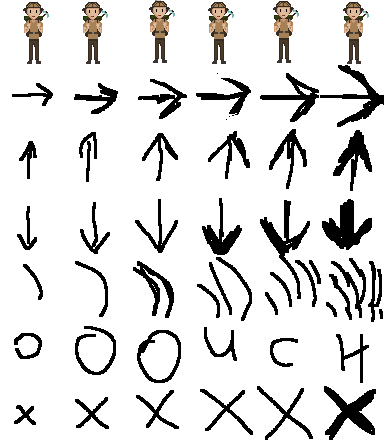
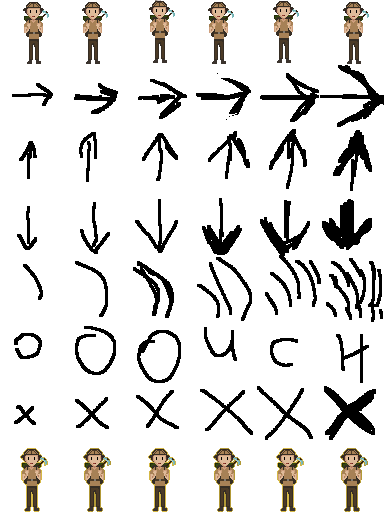
added selected animation added joins_army script action type fixed a few minor bugs

diff --git a/LostInTheMap/xml_system.cpp b/LostInTheMap/xml_system.cpp
@@ -385,6 +385,12 @@ Script xml_system::load_script(std::string name, levels level)
 				temp.type = action_type::level_switch;
 				temp.utility = cur_node->first_attribute("level")->value();
 			}
+			else if (type.compare("join_army") == 0)
+			{
+				temp.type = action_type::join_army;
+				temp.target_type = NameToTypeConversion::get_character_type_by_name(cur_node->first_attribute("character")->value());
+				temp.num_utility = std::stoi(cur_node->first_attribute("quantity")->value());
+			}
 			else
 				temp.type = action_type::not_set;
 
@@ -482,85 +488,83 @@ std::vector<army_unit*> xml_system::load_army(std::string army_path, levels leve
 			units_to_be_loaded.push_back(u->type);
 	}
 
-	//preload units file
-	rapidxml::file<> units_file("config/units.xml");
-	rapidxml::xml_document<> units_doc;
-	units_doc.parse<0>(units_file.data());
-
 	//load unit stats
 	if (units_to_be_loaded.size() > 0)
 	{
 		for (character_type unit : units_to_be_loaded)
 		{
-			std::string name = NameToTypeConversion::get_character_name_by_type(unit);
-			rapidxml::xml_node<>* unit_data =  units_doc.first_node(name.c_str())->first_node();
-
-			int health = 0;
-			int close_min = 0;
-			int close_max = 0;
-			int ranged_min = 0;
-			int ranged_max = 0;
-			int speed = 0;
-			bool ranged_allowed = false;
-
-			//read in units stats of the given unit
-			while (unit_data)
-			{
-				std::string data_name = unit_data->name();
-				if (data_name.compare("health") == 0)
-				{
-					health = std::stoi(unit_data->first_attribute("value")->value());
-				}
-				else if (data_name.compare("close_attack") == 0)
-				{
-					close_min = std::stoi(unit_data->first_attribute("min_value")->value());
-					close_max = std::stoi(unit_data->first_attribute("max_value")->value());
-				}
-				else if (data_name.compare("ranged_attack") == 0)
-				{
-					std::string val = unit_data->first_attribute("allowed")->value();
-					if (val.compare("true") == 0)
-					{
-						ranged_allowed = true;
-						ranged_min = std::stoi(unit_data->first_attribute("min_value")->value());
-						ranged_max = std::stoi(unit_data->first_attribute("max_value")->value());
-					}
-				}
-				else if (data_name.compare("speed") == 0)
-				{
-					speed = std::stoi(unit_data->first_attribute("value")->value());
-				}				
-				unit_data = unit_data->next_sibling();
-			}
+			army_unit* un = xml_system::load_army_unit(unit);
 
 			//apply units stats to all units of that type in the army
 			for (army_unit* u : result)
 			{
 				if (u->type == unit)
 				{
-					u->health_of_first = health;
-					u->max_health = health;
+					u->health_of_first = un->health_of_first;
+					u->max_health = un->max_health;
 
-					u->min_damage_close = close_min;
-					u->max_damage_close = close_max;
+					u->min_damage_close = un->min_damage_close;
+					u->max_damage_close = un->max_damage_close;
 
-					u->min_damage_ranged = ranged_min;
-					u->max_damage_ranged = ranged_max;
-					u->ranged_allowed = ranged_allowed;
+					u->min_damage_ranged = un->min_damage_ranged;
+					u->max_damage_ranged = un->max_damage_ranged;
+					u->ranged_allowed = un->ranged_allowed;
 
-					u->speed = speed;
+					u->speed = un->speed;
 					u->is_enemy = is_enemy;
 				}
 			}
+			delete un;
 		}
 	}
 
 	return result;
 }
 
+army_unit* xml_system::load_army_unit(character_type ch)
+{
+	//preload units file
+	rapidxml::file<> units_file("config/units.xml");
+	rapidxml::xml_document<> units_doc;
+	units_doc.parse<0>(units_file.data());
 
+	army_unit* u = new army_unit();
+	std::string name = NameToTypeConversion::get_character_name_by_type(ch);
+	rapidxml::xml_node<>* unit_data = units_doc.first_node(name.c_str())->first_node();
 
+	//read in units stats of the given unit
+	while (unit_data)
+	{
+		std::string data_name = unit_data->name();
+		if (data_name.compare("health") == 0)
+		{
+			u->health_of_first = std::stoi(unit_data->first_attribute("value")->value());
+			u->max_health = std::stoi(unit_data->first_attribute("value")->value());
+		}
+		else if (data_name.compare("close_attack") == 0)
+		{
+			u->min_damage_close = std::stoi(unit_data->first_attribute("min_value")->value());
+			u->max_damage_close= std::stoi(unit_data->first_attribute("max_value")->value());
+		}
+		else if (data_name.compare("ranged_attack") == 0)
+		{
+			std::string val = unit_data->first_attribute("allowed")->value();
+			if (val.compare("true") == 0)
+			{
+				u->ranged_allowed = true;
+				u->min_damage_ranged= std::stoi(unit_data->first_attribute("min_value")->value());
+				u->max_damage_ranged= std::stoi(unit_data->first_attribute("max_value")->value());
+			}
+		}
+		else if (data_name.compare("speed") == 0)
+		{
+			u->speed= std::stoi(unit_data->first_attribute("value")->value());
+		}
+		unit_data = unit_data->next_sibling();
+	}
 
+	return u;
+}
 
 xml_system::xml_system()
 {

diff --git a/LostInTheMap/animator.cpp b/LostInTheMap/animator.cpp
@@ -55,6 +55,7 @@ void animator::start_animation(IAnimatable* ac, animations type, void(*done_call
 		if (ac->cur_row == 0)
 			already_there = true;
 		ac->cur_row = 0;
+		ac->total_sprite_required_time = 170;
 	}
 		break;
 	case animations::walking_right:
@@ -67,6 +68,7 @@ void animator::start_animation(IAnimatable* ac, animations type, void(*done_call
 				already_there = true;
 			dc->flipped_x = false;
 		}
+		ac->total_sprite_required_time = 100;
 	}
 		break;
 	case animations::walking_left:
@@ -79,15 +81,18 @@ void animator::start_animation(IAnimatable* ac, animations type, void(*done_call
 				already_there = true;
 			dc->flipped_x = true;
 		}
+		ac->total_sprite_required_time = 100;
 	}
 		break;
 	case animations::walking_up:
 		if (ac->cur_row == 2)
 			already_there = true;
+		ac->total_sprite_required_time = 100;
 		ac->cur_row = 2;
 	case animations::walking_down:
 		if (ac->cur_row == 3)
 			already_there = true;
+		ac->total_sprite_required_time = 100;
 		ac->cur_row = 3;
 		break;
 	case animations::attacking_right:
@@ -99,6 +104,7 @@ void animator::start_animation(IAnimatable* ac, animations type, void(*done_call
 				already_there = true;
 			dc->flipped_x = false;
 		}
+		ac->total_sprite_required_time = 100;
 		ac->cur_row = 4;
 	}
 		break;
@@ -111,6 +117,7 @@ void animator::start_animation(IAnimatable* ac, animations type, void(*done_call
 				already_there = true;
 			dc->flipped_x = true;
 		}
+		ac->total_sprite_required_time = 100;
 		ac->cur_row = 4;
 	}
 		break;
@@ -118,11 +125,19 @@ void animator::start_animation(IAnimatable* ac, animations type, void(*done_call
 		if (ac->cur_row == 5)
 			already_there = true;
 		ac->cur_row = 5;
+		ac->total_sprite_required_time = 100;
 		break;
 	case animations::death:
 		if (ac->cur_row == 6)
 			already_there = true;
 		ac->cur_row = 6;
+		ac->total_sprite_required_time = 100;
+		break;
+	case animations::selected:
+		if (ac->cur_row == 7)
+			already_there = true;
+		ac->cur_row = 7;
+		ac->total_sprite_required_time = 170;
 		break;
 	}
 	if (!already_there)

diff --git a/LostInTheMap/combat_flow.cpp b/LostInTheMap/combat_flow.cpp
@@ -92,6 +92,14 @@ void combat_flow::init_combat_space(Space& game_space)
 	combat_flow::compose_turn_orders();
 	movement_system::set_movement_finished_callback(&unit_finished_moving);
 
+	if (order_of_turns.at(cur_turn)->health_of_first != 0)
+	{
+		IAnimatable* ac = (IAnimatable*)order_of_turns.at(cur_turn)->unit_entity->get_component(Component::ComponentType::Animated);
+		animator::start_animation(ac, animations::selected);
+	}
+	else
+		unit_finished_turn();
+
 	combat_space.initialised = true;
 	initialised = true;
 
@@ -298,14 +306,17 @@ void combat_flow::unit_finished_moving(Entity* unit)
 		animator::start_animation(ac, animations::idle);
 		unit_finished_turn();
 	}
-
-	
 }
 
 void combat_flow::unit_finished_turn()
 {
 	if (combat_flow::check_combat_finished())
 		return;
+
+	//reset animation just in case
+	IAnimatable* ac = (IAnimatable*)order_of_turns.at(cur_turn)->unit_entity->get_component(Component::ComponentType::Animated);
+	animator::start_animation(ac, animations::idle);
+
 	cur_turn--;
 	if(cur_turn >= 0)
 		while (order_of_turns.at(cur_turn)->health_of_first <= 0)//will make sure that dead units don't get a turn
@@ -342,7 +353,11 @@ void combat_flow::unit_finished_turn()
 		
 	}
 	else
+	{
+		IAnimatable* ac = (IAnimatable*)a->unit_entity->get_component(Component::ComponentType::Animated);
+		animator::start_animation(ac, animations::selected);
 		mouse_system::enable_mouse(mouse);
+	}
 
 
 	std::cout << a->unit_entity->name << std::endl;
@@ -373,6 +388,9 @@ bool combat_flow::check_combat_finished()
 		else if (!enemy)
 			player_is_winner = true;
 		combat_finished = true;
+
+		for (army_unit* u : order_of_turns)
+			u->health_of_first = u->max_health;
 	}
 	return combat_finished;
 }

diff --git a/LostInTheMap/script_system.cpp b/LostInTheMap/script_system.cpp
@@ -210,6 +210,20 @@ void script_system::perform_action()
 		action_over(nullptr);
 		break;
 	}
+	case action_type::join_army:
+	{
+		army_unit* u = xml_system::load_army_unit(to_perform->target_type);
+		u->quantity = to_perform->num_utility;
+		u->type = to_perform->target_type;
+		combat_flow::player_army.push_back(u);
+		
+		Entity* pl = SpaceSystem::find_entity_by_name(*game_space, "player");
+		IFightable* fc = (IFightable*)pl->get_component(Component::ComponentType::Fighting);
+		fc->army.push_back(u);
+		
+		action_over(nullptr);
+		break;
+	}
 	}
 }
 

diff --git a/LostInTheMap/xml_system.h b/LostInTheMap/xml_system.h
@@ -70,6 +70,8 @@ public:
 
 	static std::vector<army_unit*> load_army(std::string army_path, levels level, bool is_enemy = true);
 
+	static army_unit* load_army_unit(character_type ch);
+
 	static Dialogue load_dialogue(levels level, std::string path);
 
 	xml_system();

diff --git a/LostInTheMap/Components.h b/LostInTheMap/Components.h
@@ -103,7 +103,7 @@ public:
 	SDL_Rect src_rect;
 	int cur_row, cur_column;
 	int time_elapsed;
-	int total_sprite_required_time = 100;
+	int total_sprite_required_time = 170;
 	bool sprite_changed;
 	bool animation_started = false;
 	bool animation_finished = false;

diff --git a/LostInTheMap/Script.h b/LostInTheMap/Script.h
@@ -15,7 +15,8 @@ enum action_type
 	set_story_state,
 	object_disappear,
 	character_disappear,
-	level_switch
+	level_switch,
+	join_army
 };
 
 class Action
@@ -37,6 +38,7 @@ public:
 
 	//utility stuff
 	std::string utility;
+	int num_utility;
 };
 
 class Script
